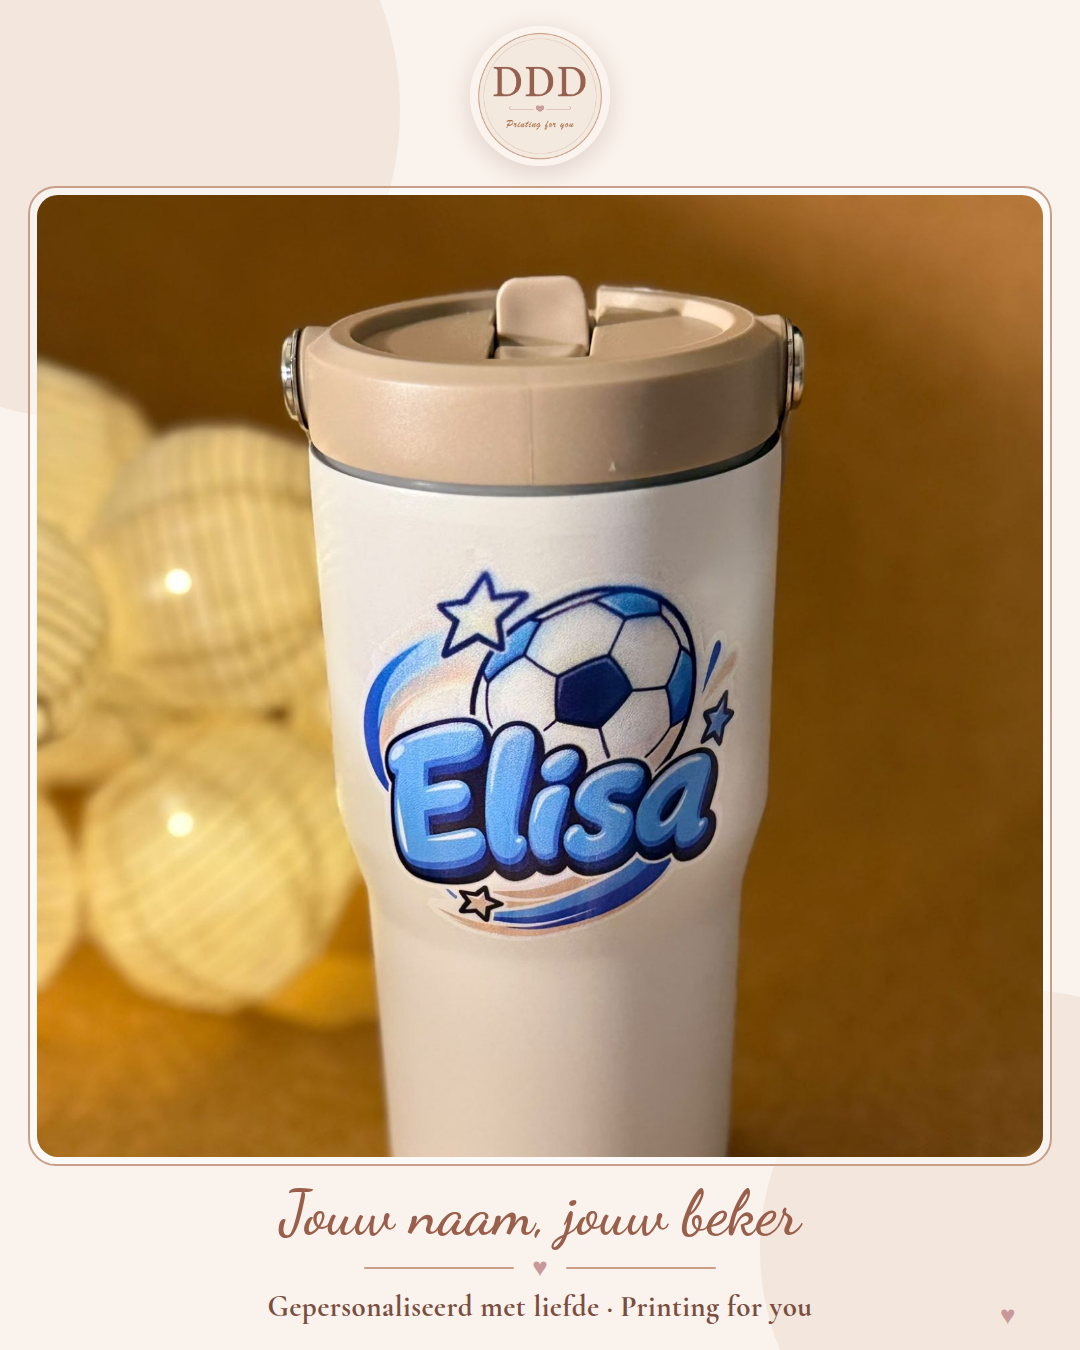
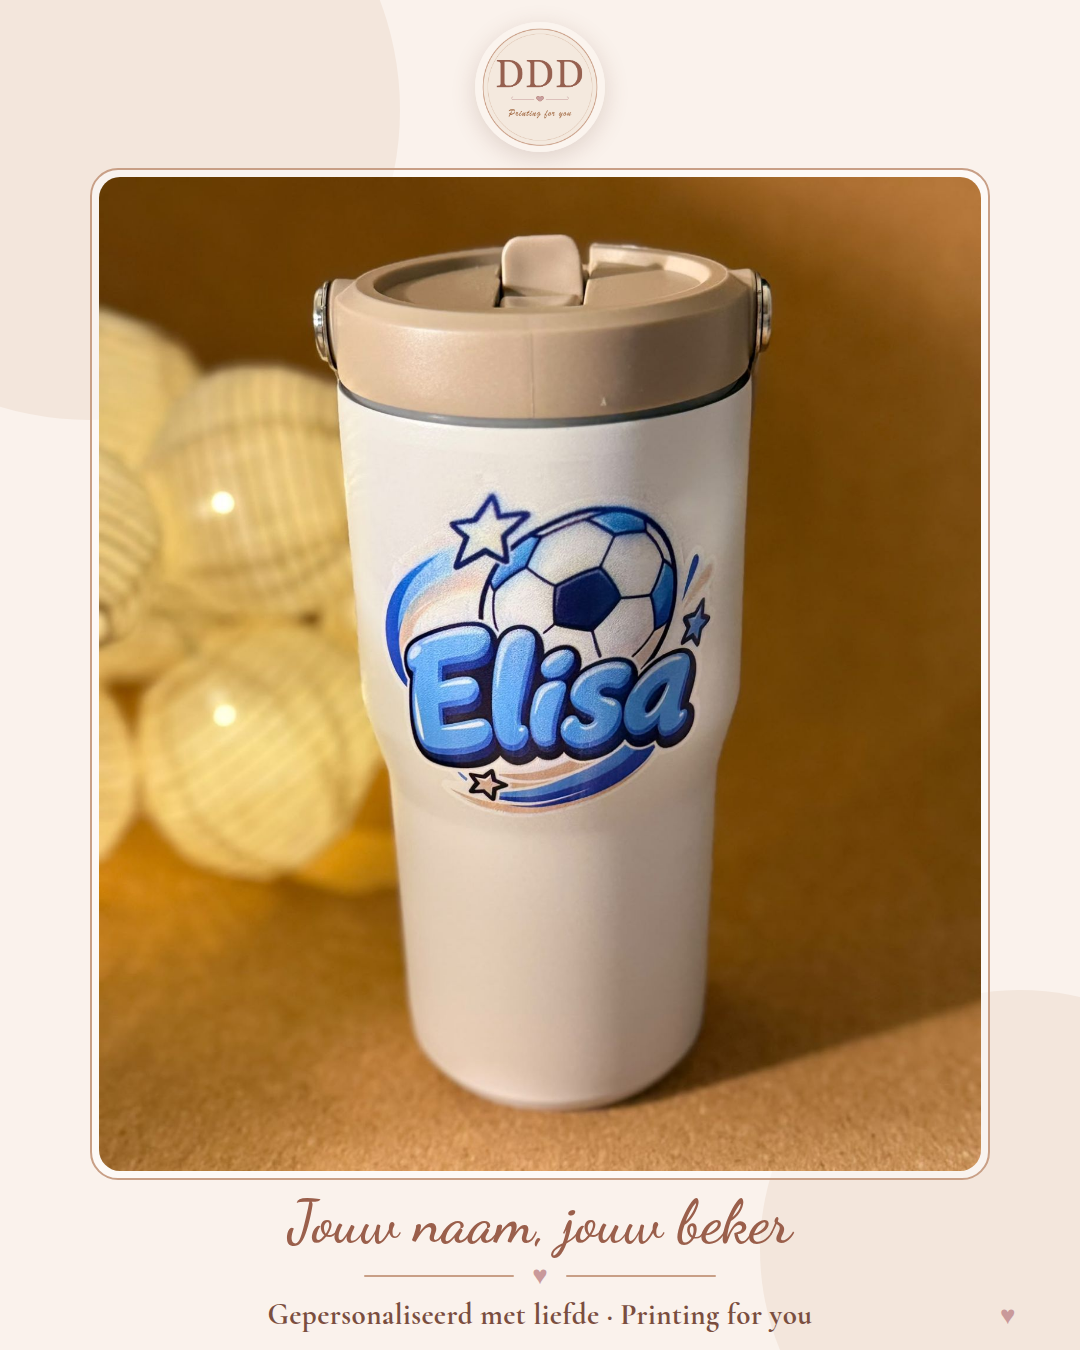
Feed-variant 2: hele drinkfles in beeld
Claude-Session: https://claude.ai/code/session_01HaA32Qybee1y13UJbtbMTK

diff --git a/drukwerk/instagram/sjabloon.html b/drukwerk/instagram/sjabloon.html
@@ -28,11 +28,11 @@ body:not(.story):not(.post2) .onder{top:1160px;padding-left:190px}
 .story .onder{top:1680px}
 .story .kop{font-size:88px}
 /* feed, variant 2: layout zoals de story */
-.post2 .logo{left:50%;transform:translateX(-50%);top:26px;width:140px;height:140px}
-.post2 .frame{top:186px;height:980px}
-.post2 .frame img{object-position:center 30%}
-.post2 .onder{top:1182px;padding-left:0}
-.post2 .kop{font-size:62px}
+.post2 .logo{left:50%;transform:translateX(-50%);top:22px;width:130px;height:130px}
+.post2 .frame{top:168px;width:900px;height:1012px}
+.post2 .frame img{object-position:center 62%}
+.post2 .onder{top:1192px;padding-left:0}
+.post2 .kop{font-size:60px}
 .post2 .sub{font-size:29px}
 </style></head><body>
 <div class="blob b1"></div><div class="blob b2"></div>
